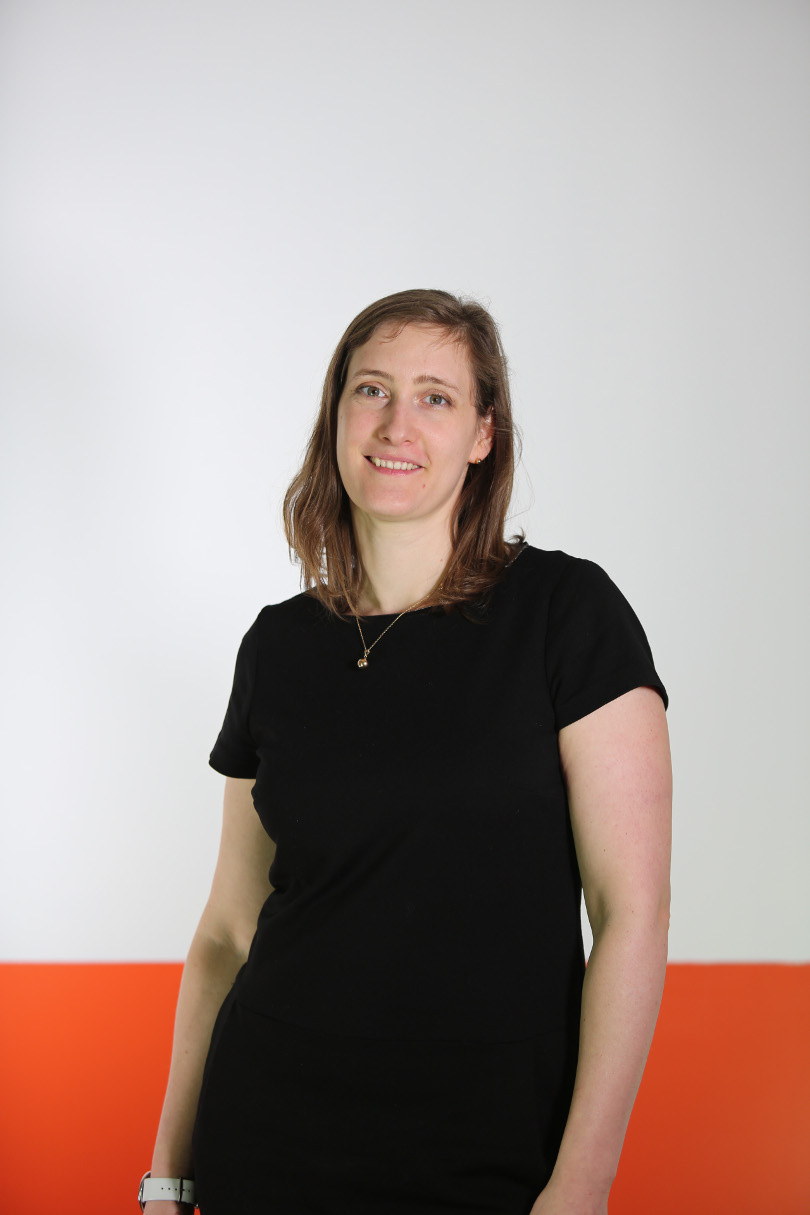
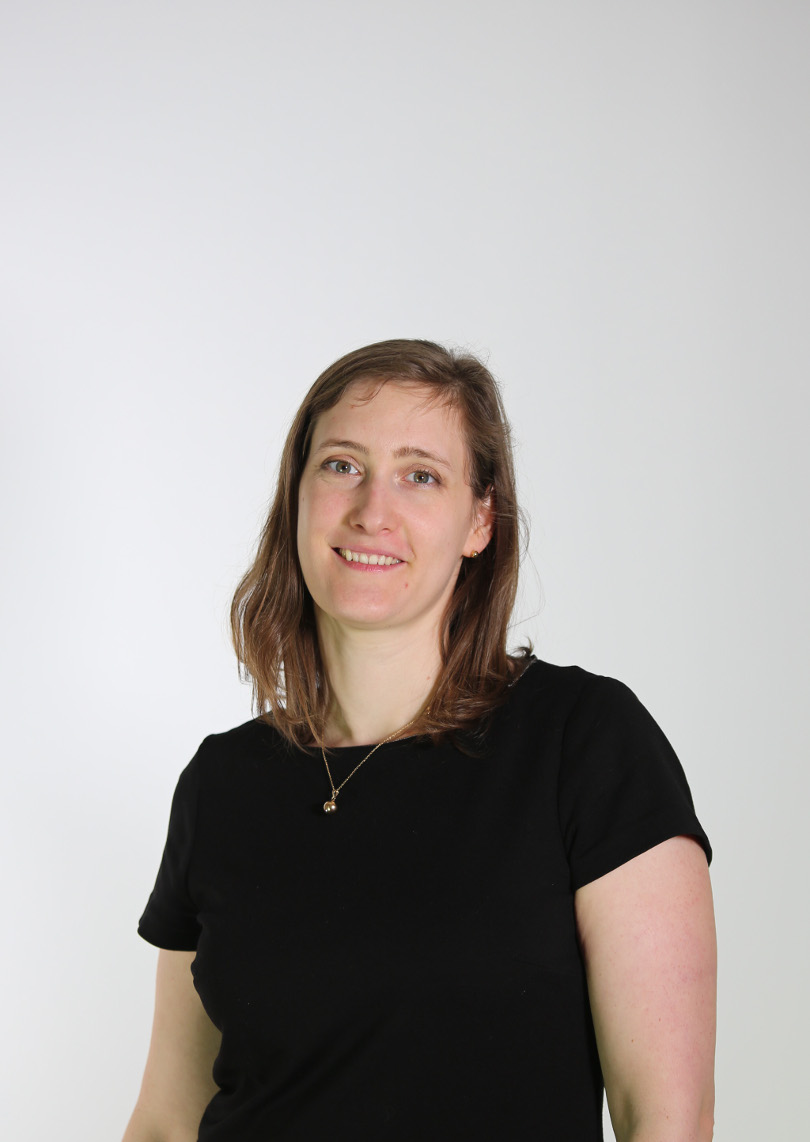
ajout guillemet à la citation Recadrage plus prêt de la photo pour enlever l'orange

Changed region(s): [[0.0, 0.2145, 1.0, 1.0]]

diff --git a/src/portraits/gaelle-labache.md b/src/portraits/gaelle-labache.md
@@ -1,7 +1,7 @@
 ---
 name: Gaëlle Labache
 bulle1:
-bulle2: Learning by doing
+bulle2: “Learning by doing”
 bulle3: John Dewey
 image: /images/portraits/gaelleL.jpg 
 hashtag: '#patchworkeuse'
